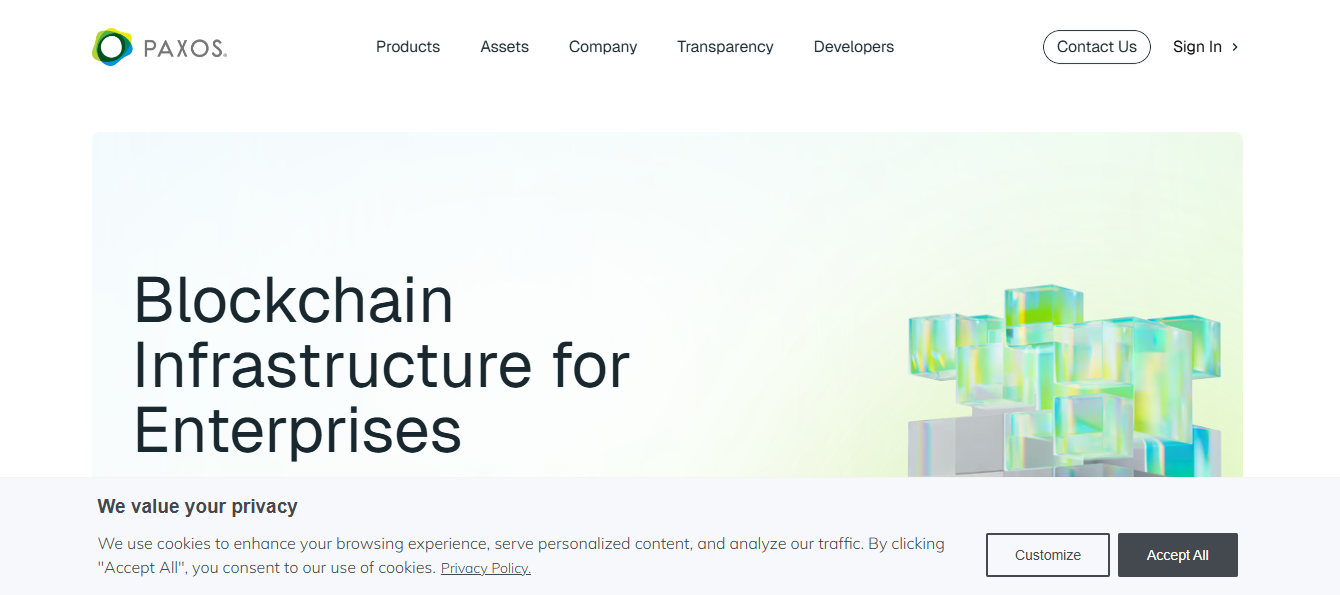
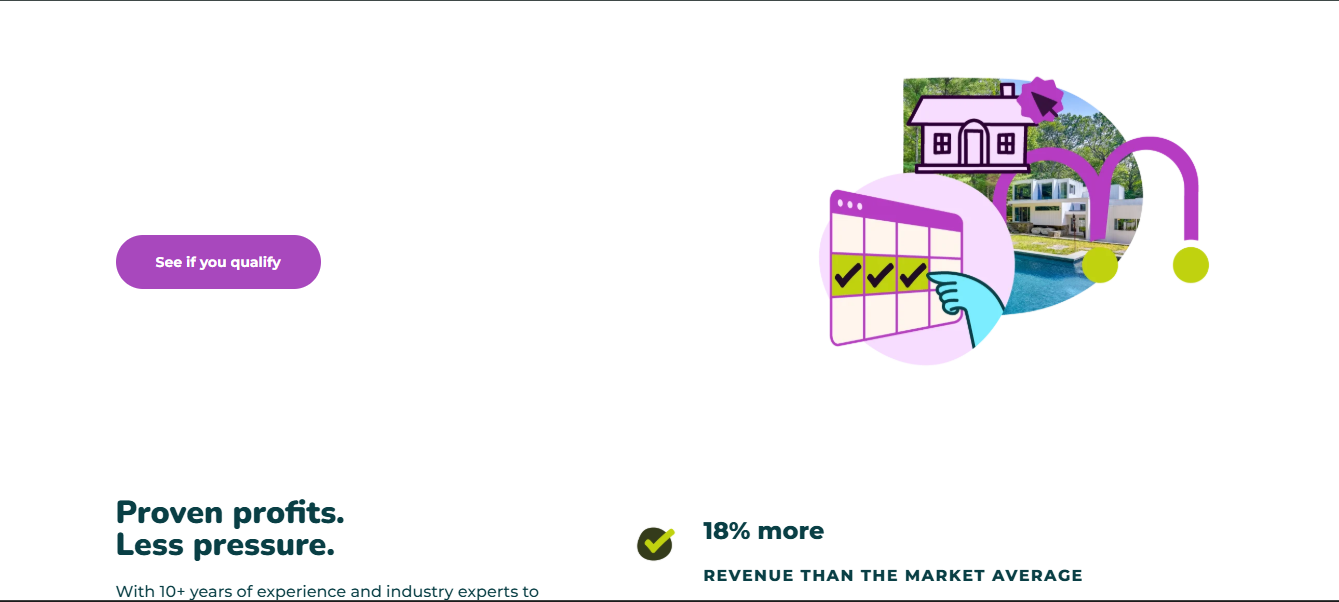
update info tyner

diff --git a/src/constants/index.ts b/src/constants/index.ts
@@ -1,65 +1,41 @@
 const projects = [
   {
-    title: "Epic Platform",
+    title: "Rackspace Technology",
     description:
       "Epic software makes it possible for every patient to have a single, comprehensive medical record that informs and is informed by their health experiences.",
     tech: ["React", "TailwindCss", "MongoDB", "Stripe", "teraform", "Python"],
     image: "./epic.png",
     fullDescription:
-      "Epic software makes it possible for every patient to have a single, comprehensive medical record that informs and is informed by their health experiences. The goal is higher-quality, more personalized care that's simpler for patients, medical professionals, and everyone who makes healthcare happen.",
-    liveLink: "https://www.epic.com/",
-    githubLink: "https://github.com/epic",
+      "SaaS Optimization & Deployment: Analyzed business processes to identify suitable SaaS solutions, led customization and deployment of secure, scalable, and cost-efficient SaaS applications, and optimized integrations within a multicloud environment to reduce operational costs while improving reliability, accessibility, and user experience.",
+    liveLink: "https://docs.rackspace.com/",
+    githubLink: "https://github.com/rackspace",
   },
   {
-    title: "Paxos",
+    title: "HomeAway",
     description:
-      "Paxos Trust Company is a New York–based financial institution and technology company specializing in blockchain.",
+      "A fast-growing rental platform startup that connects property owners and renters through a secure, scalable, and user-friendly booking and management system.",
     tech: ["React", "Firebase", "Tailwind CSS", "springboot", "jenkins"],
     image: "/paxos.png",
     fullDescription:
-      "As a Software Engineer at Paxos Trust Company, I contributed to building and maintaining critical infrastructure for one of the leading regulated blockchain and cryptocurrency platforms. Working within a fast-paced fintech environment, I developed scalable solutions that power Paxos's suite of digital asset services, including stablecoin issuance, tokenization, and settlement systems",
-    liveLink: "https://www.paxos.com/",
-    githubLink: "https://github.com/example",
-  },
-  {
-    title: "OpenDoor",
-    description:
-      "Sell on your own schedule. Get an offer from Opendoor and choose your close date..",
-    tech: [
-      "React",
-      "Firebase",
-      "Tailwind CSS",
-      "useQuery",
-      "Redux- Thunk/Saga",
-    ],
-    image: "/od.png",
-    fullDescription:
-      "As a Senior Software Engineer at Opendoor, I played a key role in revolutionizing the real estate industry by building technology that enables homeowners to sell their properties with unprecedented flexibility and simplicity. I contributed to the platform that has transformed thousands of home sales by eliminating traditional friction points and putting sellers in control of their timeline.",
-    liveLink: " https://www.opendoor.com",
-    githubLink: "https://github.com/opendoor",
+      "Built and maintained user-facing web applications for a large-scale vacation rental platform using React, Redux, and TypeScript, delivering responsive, accessible, and high-performance interfaces. Collaborated with backend teams to integrate RESTful APIs for booking, payments, and listings, while migrating legacy AngularJS code to modern React patterns to reduce technical debt. Supported CI/CD pipelines and automated testing with Jenkins and Cypress, significantly improving release speed, stability, and deployment reliability.",
+    liveLink: " http://www.homeaway.com",
+    githubLink: "https://github.com/homeaway",
   },
 ];
 const experience = [
   {
     title: "Senior Fullstack Developer",
-    company: "Epic.",
+    company: "Rackspace technology.",
     period: "2022 - Present",
     description:
-      "Led development of multiple enterprise applications, mentored junior developers, and implemented CI/CD pipelines.",
+      "SaaS Optimization & Deployment: Analyzed business processes to identify suitable SaaS solutions, led customization and deployment of secure, scalable, and cost-efficient SaaS applications, and optimized integrations within a multicloud environment to reduce operational costs while improving reliability, accessibility, and user experience.",
   },
   {
     title: "Fullstack Developer",
-    company: "Paxos",
+    company: "HomeAway",
     period: "2020 - 2022",
     description:
-      "Built scalable web applications using React and Node.js, collaborated with cross-functional teams.",
-  },
-  {
-    title: "Frontend Developer",
-    company: "OpenDoor",
-    period: "2018 - 2020",
-    description:
-      "Developed responsive user interfaces and improved application performance by 40%.",
+      "Built and maintained user-facing web applications for a large-scale vacation rental platform using React, Redux, and TypeScript, delivering responsive, accessible, and high-performance interfaces. Collaborated with backend teams to integrate RESTful APIs for booking, payments, and listings, while migrating legacy AngularJS code to modern React patterns to reduce technical debt. Supported CI/CD pipelines and automated testing with Jenkins and Cypress, significantly improving release speed, stability, and deployment reliability.",
   },
 ];
 const skills = [

diff --git a/src/components/Header.tsx b/src/components/Header.tsx
@@ -14,7 +14,7 @@ const Header = ({
       <nav className="container mx-auto px-6 py-4">
         <div className="flex justify-between items-center">
           <div className="text-2xl font-bold bg-linear-to-r from-blue-400 to-purple-400 text-transparent bg-clip-text">
-            MD
+            TT
           </div>
           {/* Desktop Navigation */}
           <div className="hidden md:flex items-center gap-8">

diff --git a/index.html b/index.html
@@ -4,7 +4,7 @@
     <meta charset="UTF-8" />
     <link rel="icon" type="image/svg+xml" href="/matt.svg" />
     <meta name="viewport" content="width=device-width, initial-scale=1.0" />
-    <title>matt</title>
+    <title>Thomas</title>
   </head>
   <body>
     <div id="root"></div>
